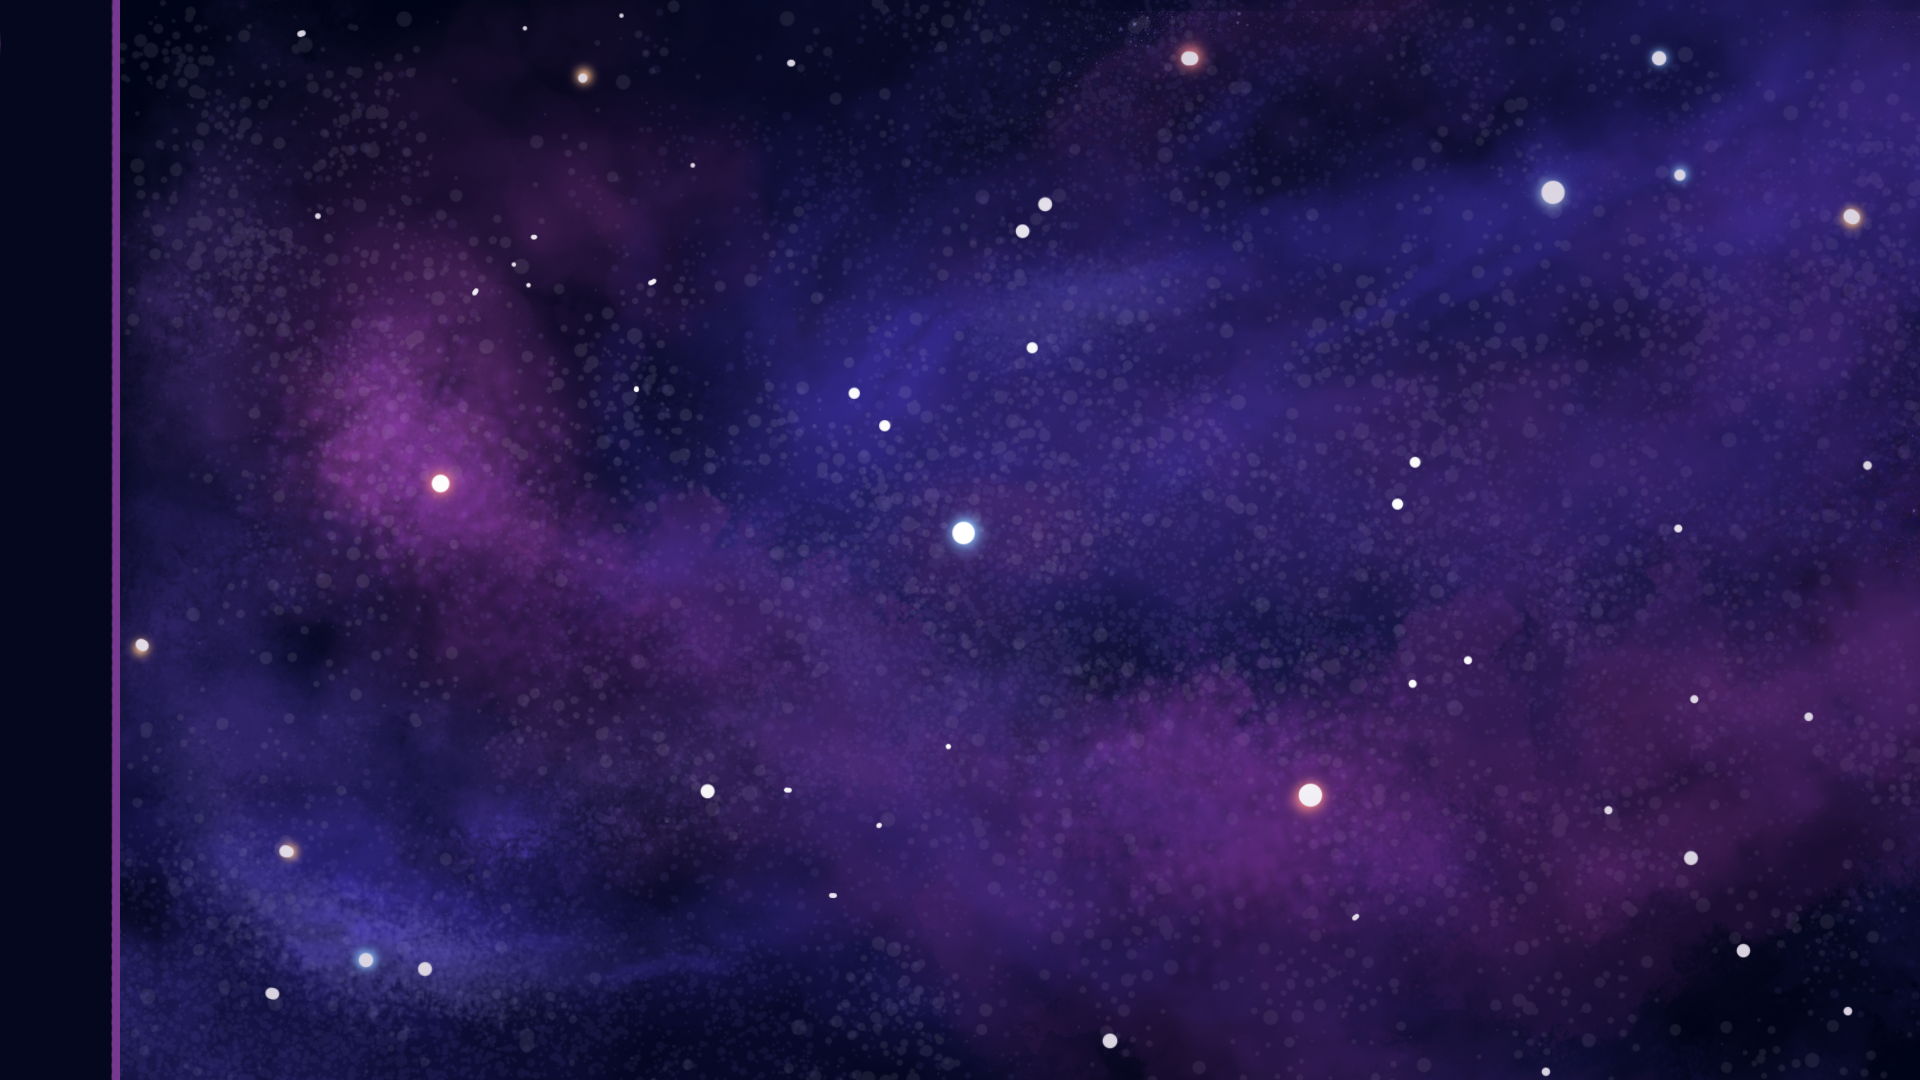
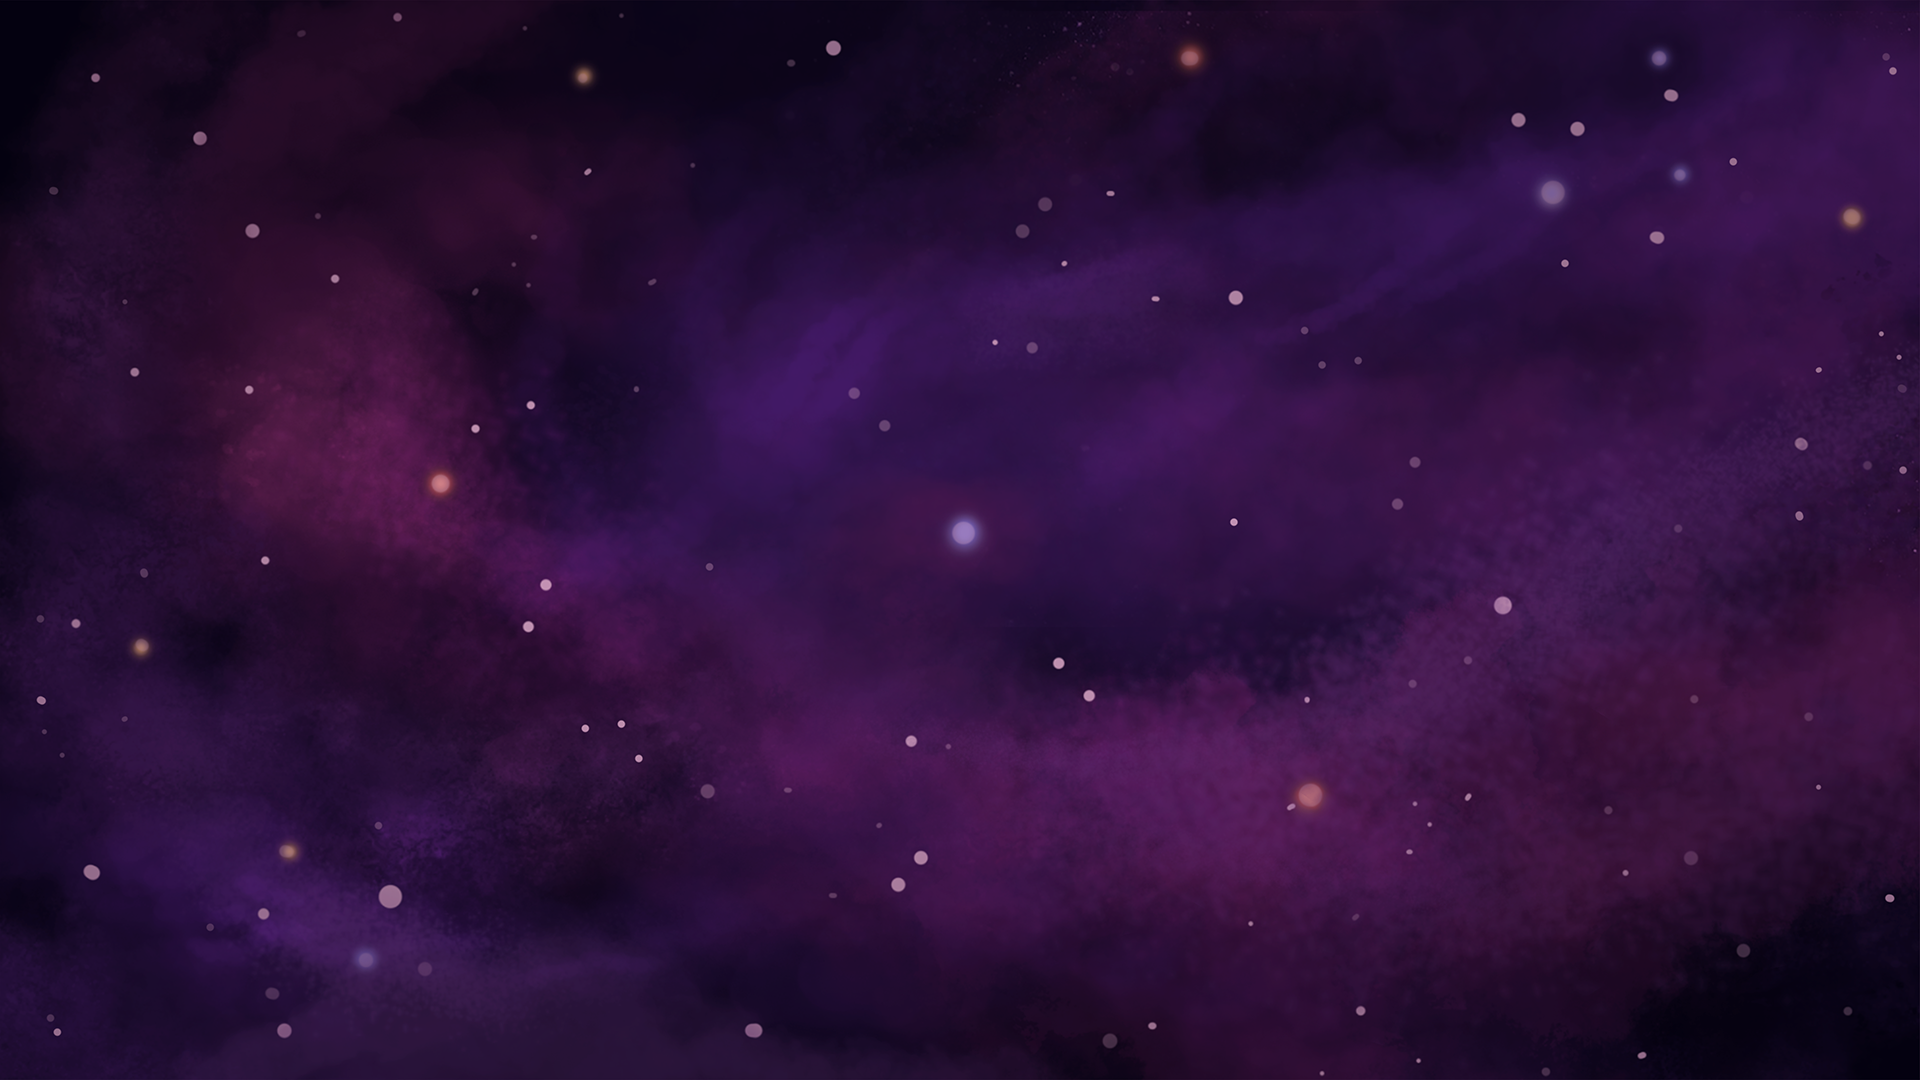
HackyBalls: adding new art assets

diff --git a/com.endlessm.hackyballs/app/HackyBalls.js b/com.endlessm.hackyballs/app/HackyBalls.js
@@ -114,6 +114,7 @@ function HackyBalls()
 	var FLINGER_FLING_DURATION		= 30;
 	var FLINGER_HANDLE_SIZE			= 19.0;
 	var FLINGER_SIZE	 			= 50.0;
+	var FLINGER_MIN_RADIUS			= 60.0;
 	
 	var CURSOR_SIZE					= 40.0;
 	var NUM_BALL_SPECIES 			= 3;
@@ -213,6 +214,46 @@ function HackyBalls()
 			_flinger.handlePosition.add( _flinger.handleVelocity );
 		}		
 	}
+
+
+
+
+
+var MAX_NUMBER = 10;
+
+function Partition()
+{
+	this.valid = false;
+	this.part = new Array( MAX_NUMBER );
+	
+	for (var p=0; p<MAX_NUMBER; p++)
+	{
+		this.part[p] = 0;
+	}
+}	
+
+var _partitions = new Array( NUM_BALL_SPECIES );
+
+//-----------------------------------
+// set up the array of partitions
+//-----------------------------------
+for (var p=0; p<NUM_BALL_SPECIES; p++)
+{
+	_partitions[p] = new Partition();
+}
+
+for (var p=0; p<NUM_BALL_SPECIES; p++)
+{
+	_partitions[p].valid = false;
+	
+	for (var d=0; d<MAX_NUMBER; d++)
+	{	    
+		_partitions[p].part[d] = 0;
+	}        
+}  
+
+
+
 
 
 	//-------------------------
@@ -562,7 +603,7 @@ function HackyBalls()
 		//----------------------------------------------------------------
 		else if ( presetID == 2 )
 		{
-			globalParameters.backgroundImageIndex = 3;
+			globalParameters.backgroundImageIndex = 1;
 
 			globalParameters.radius_0 			= 100.0;
 			globalParameters.gravity_0 			= 0.0;
@@ -890,7 +931,7 @@ function HackyBalls()
 					if ( gameState.numCollisions >= gameState.numCollisionsGoal )
 					{
 						gameState.success = true;	
-						if ( _useAudio ) { SUCCESS_SOUND.play(); }		
+						//if ( _useAudio ) { SUCCESS_SOUND.play(); }		
 					}
 		
 					gameState.clock = 0;
@@ -1005,6 +1046,8 @@ function HackyBalls()
 							||  (( gameState.collisionSpecies1 == oSpecies ) && ( gameState.collisionSpecies2 == bSpecies )))
 							{
 								gameState.numCollisions ++;
+								
+								//collision[ bSpecies ].otherSpecies[c] = 
 							}
 												
 							if ( _species[ bSpecies ].touchDeath[ oSpecies ] )
@@ -1183,6 +1226,7 @@ function HackyBalls()
 			_hackyBallsGUI.render();
 		}		
 		
+		/*
 		//---------------------------------
 		// show game state success screen
 		//---------------------------------
@@ -1199,6 +1243,7 @@ function HackyBalls()
 				width, height
 			);		
 		}
+		*/
 	}
 	
 
@@ -1303,7 +1348,6 @@ function HackyBalls()
 		canvas.fill();
 		canvas.closePath();	
 		
-	
 		//-----------------------------------
 		// show slingshot harness
 		//-----------------------------------
@@ -1312,10 +1356,16 @@ function HackyBalls()
 			_balls[ _flinger.ballIndex ].getPosition().x - xx - yy, 
 			_balls[ _flinger.ballIndex ].getPosition().y - yy + xx 
 		);
+		
+		var flingerRadius = radius * 2.0;
+		//if ( flingerRadius < FLINGER_MIN_RADIUS ) 
+		//{
+		//	flingerRadius = FLINGER_MIN_RADIUS;
+		//}
 	
 		var angle = -Math.PI * ONE_HALF + Math.atan2( yy, xx ); 
 		canvas.rotate( angle );	
-		canvas.scale( radius * 2.0, radius * 2.0 );
+		canvas.scale( flingerRadius, flingerRadius );
 		canvas.drawImage( _flinger.image, ZERO, ZERO, ONE, ONE );
 		canvas.resetTransform();
 	}
